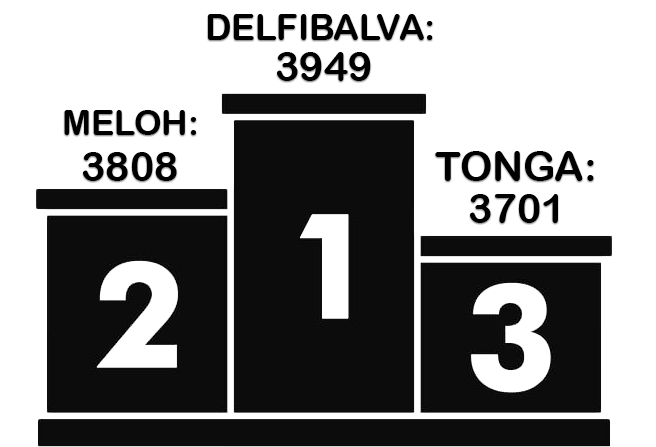
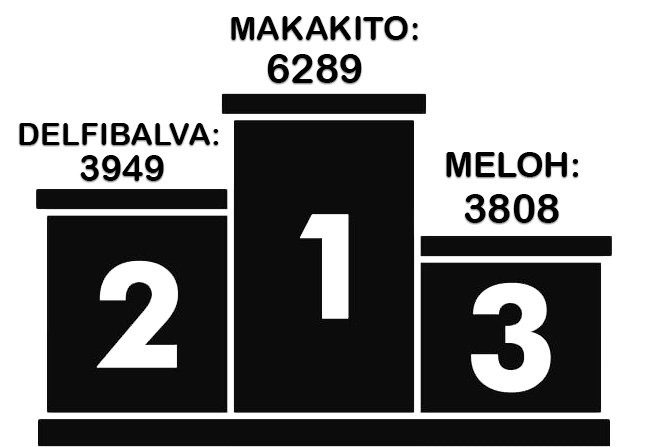
agregando viewers tabla suika y actualziando makakito top1

diff --git a/suika/top/index.html b/suika/top/index.html
@@ -179,59 +179,64 @@
                         <tbody>
                             <tr>
                                 <td>1</td>
+                                <td><a href="https://www.twitch.tv/makakitox">Makakitox</a></td>
+                                <td>6289</td>
+                                <td><a href="https://www.twitch.tv/makakitox/clip/FreezingGenerousFlyPJSalt-iQgGyh3a11AySy_u">Clip</a></td>
+                            </tr>
+                            <tr>
+                                <td>2</td>
                                 <td><a href="https://www.twitch.tv/delfibalva">Delfibalva</a></td>
                                 <td>3949</td>
                                 <td><a href="https://www.twitch.tv/delfibalva/clip/LitigiousPricklySoymilkPeanutButterJellyTime-ixkmGUnGEj0U2NEr">Clip</a></td>
                             </tr>
                             <tr>
-                                <td>2</td>
+                                <td>3</td>
                                 <td><a href="https://www.twitch.tv/meelooh">Meloh</a></td>
                                 <td>3808</td>
                                 <td><a href="https://www.twitch.tv/meelooh/clip/FastCorrectWalrusM4xHeh-JSYNYvGexb6-3uaL">Clip</a></td>
                             </tr>
                             <tr>
-                                <td>3</td>
+                                <td>4</td>
                                 <td><a href="https://www.twitch.tv/tongx_">Tonga</a></td>
                                 <td>3701</td>
                                 <td><a href="https://www.twitch.tv/tongx_/clip/CourageousRealFriesLitty-R30fnVUl84vDtH72">Clip</a></td>
                             </tr>
                             <tr>
-                                <td>4</td>
+                                <td>5</td>
                                 <td><a href="https://www.twitch.tv/taffitaa">Taffita</a></td>
                                 <td>3534</td>
                                 <td><a href="https://www.twitch.tv/taffitaa/clip/FrigidSweetChamoisEagleEye-lDPjmqL8gdUHDmQf">Clip</a></td>
                             </tr>
                             <tr>
-                                <td>5</td>
+                                <td>6</td>
                                 <td><a href="https://www.twitch.tv/chabon">Chabon</a></td>
                                 <td>3348</td>
                                 <td><a href="https://www.twitch.tv/chabon/clip/SucculentSplendidUdonDxCat-tUwiNlt1pk9Az74I">Clip</a></td>
                             </tr>
                             <tr>
-                                <td>6</td>
+                                <td>7</td>
                                 <td><a href="https://www.twitch.tv/thiago_gj">Thiago GJ</a></td>
                                 <td>3192</td>
                                 <td><a href="https://www.twitch.tv/thiago_gj/clip/PeppyGleamingDootBuddhaBar-6ifx94yWlgUHggWo">Clip</a></td>
                             </tr>
                             <tr>
-                                <td>7</td>
+                                <td>8</td>
                                 <td><a href="https://www.twitch.tv/aldimirco">Aldimirco</a></td>
                                 <td>3098</td>
                                 <td><a href="https://www.twitch.tv/aldimirco/clip/DeadDeterminedMarrowKappaPride-5BAE6Lq-cpmqaiwm">Clip</a></td>
                             </tr>
                             <tr>
-                                <td>8</td>
+                                <td>9</td>
                                 <td><a href="https://www.twitch.tv/julianpz7">Julianpz7</a></td>
                                 <td>2946</td>
                                 <td><a href="https://www.twitch.tv/julianpz7/clip/SleepyMoistGrassCoolStoryBob-foNXnhp2tXn42gM2">Clip</a></td>
                             </tr>
                             <tr>
-                                <td>9</td>
+                                <td>10</td>
                                 <td><a href="https://www.twitch.tv/harryalexok">HarryAlexOk</a></td>
                                 <td>2859</td>
                                 <td><a href="https://www.twitch.tv/harryalexok/clip/GleamingUglyTomatoAMPTropPunch-21ojQ4kqVsoed0Z3">Clip</a></td>
                             </tr>
-                            
                     </tbody>
                 </table>
             </div>

diff --git a/suika/topViewers/index.html b/suika/topViewers/index.html
@@ -193,56 +193,51 @@
                             </tr>
                             <tr>
                                 <td>4</td>
-                                <td>Makakitox</td>
-                                <td>4246</td>
-                            </tr>
-                            <tr>
-                                <td>5</td>
                                 <td>Pocc0yo</td>
                                 <td>4065</td>
                             </tr>
                             <tr>
-                                <td>6</td>
+                                <td>5</td>
                                 <td>Gonzitax</td>
                                 <td>3786</td>
                             </tr>
                             <tr>
-                                <td>7</td>
+                                <td>6</td>
                                 <td>Lolardou</td>
                                 <td>3751</td> 
                             </tr>
                             <tr>
-                                <td>8</td>
+                                <td>7</td>
                                 <td>Leoncito</td>
                                 <td>3718</td>
                             </tr>
                             <tr>
-                                <td>9</td>
+                                <td>8</td>
                                 <td>Valentinascz</td>
                                 <td>3663</td> 
                             </tr>
                             <tr>
-                                <td>10</td>
+                                <td>9</td>
                                 <td>Ardiancho</td>
                                 <td>3645</td>
                             </tr>
                             <tr>
-                                <td>11</td>
+                                <td>10</td>
                                 <td>KILLER AUGUSTO TERCERO</td>
                                 <td>3535</td>
                             </tr>
                             <tr>
-                                <td>12</td>
+                                <td>11</td>
                                 <td>Alangoro</td>
                                 <td>3422</td>
                             </tr>
                             <tr>
-                                <td>13</td>
+                                <td>12</td>
                                 <td>Blito</td>
                                 <td>3419</td>
                             </tr>
                             <tr>
-                                <td>14</td>
+                                <td>13</td>
                                 <td>Nawell</td>
                                 <td>2632</td> 
                             </tr>
